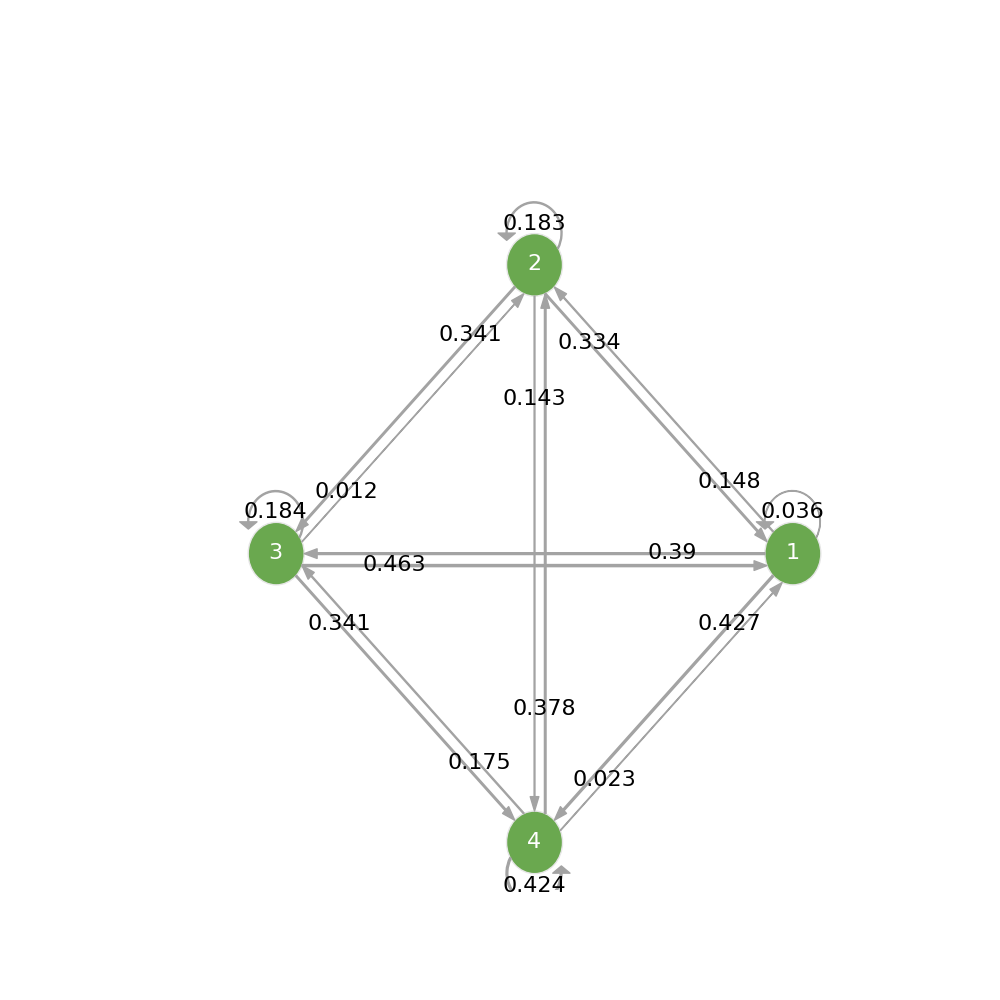
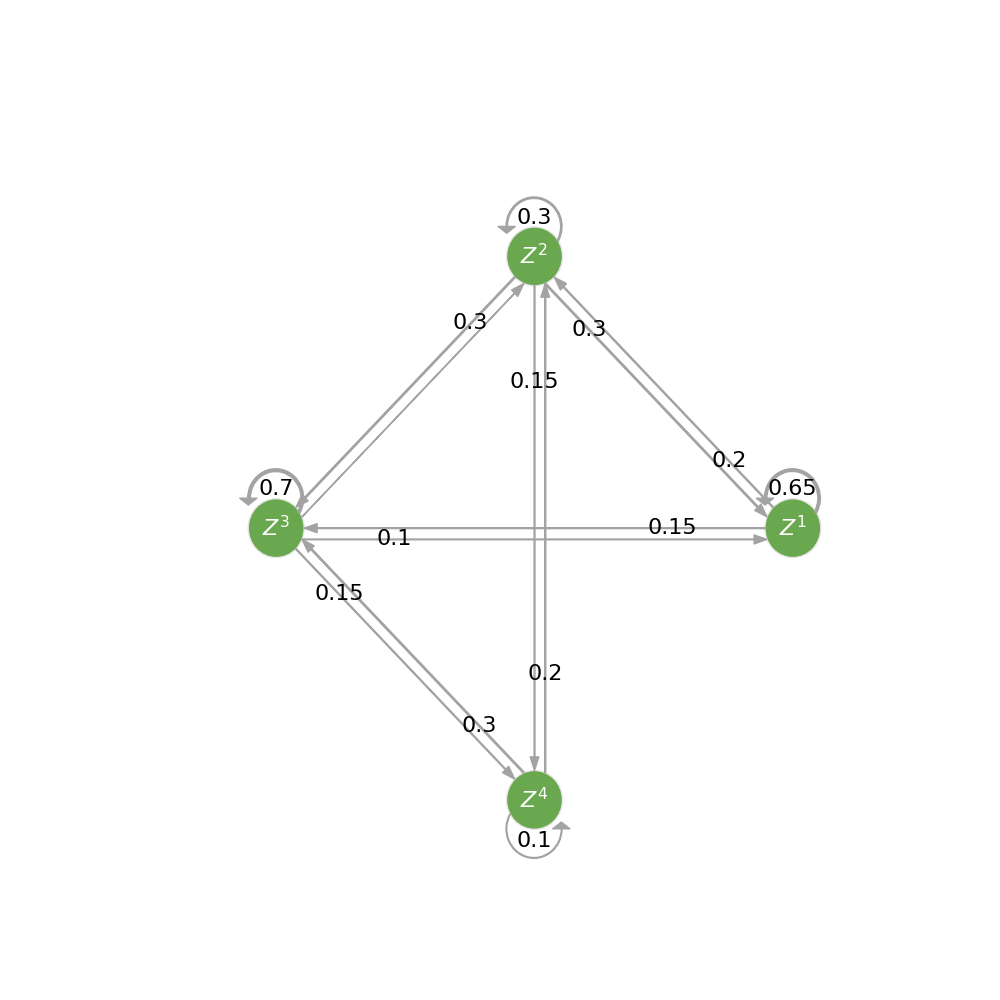
Update image and README

diff --git a/README.md b/README.md
@@ -4,7 +4,7 @@ Simple Markov Chain visualization module in Python. Only requires **matplotlib**
 
 ## Description
 
-The current version works with 2 to 9 states (can plot more, but graph becomes cluttery).
+The current version works with 2 to 9 states - it is possible to plot more, but graph becomes cluttery. (2 to 4 states in the original version 2021-12-14.)
  
 ## Getting Started
 
@@ -31,38 +31,22 @@ mc.draw("../img/markov-chain-two-states.png")
 
 ![two state markov chain transition diagram python](https://github.com/NaysanSaran/markov-chain/blob/master/img/markov-chain-two-states.png)
 
-
-#### 3-state Markov chain demo
-
-```
-P = np.array([
-    [0.8, 0.1, 0.1],
-    [0.1, 0.7, 0.2],
-    [0.1, 0.7, 0.2],
-])
-mc = MarkovChain(P, ['A', 'B', 'C'])
-mc.draw("../img/markov-chain-three-states.png")
-```
-
-![three state markov chain transition diagram python](https://github.com/NaysanSaran/markov-chain/blob/master/img/markov-chain-three-states.png)
-
+## Contribution by [joel-n](https://github.com/joel-n)
 
 #### 4-state Markov chain demo
 
 ```
 P = np.array([
-    [0.8, 0.1, 0.1, 0.0],
-    [0.1, 0.7, 0.0, 0.2],
-    [0.1, 0.0, 0.7, 0.2],
-    [0.1, 0.0, 0.7, 0.2]
+    [0.65, 0.2, 0.15, 0.0], 
+    [0.3, 0.3, 0.3, 0.15],
+    [0.1, 0.0, 0.7, 0.15],
+    [0.4, 0.2, 0.3, 0.1]
 ])
-mc = MarkovChain(P, ['1', '2', '3', '4'])
+mc = MarkovChain(P, [r'$Z^1$', r'$Z^2$', r'$Z^3$', r'$Z^4$'])
 mc.draw("../img/markov-chain-four-states.png")
 ```
 
-![four state markov chain transition diagram python](https://github.com/NaysanSaran/markov-chain/blob/master/img/markov-chain-four-states.png)
-
-## Contribution by [joel-n](https://github.com/joel-n)
+![four state markov chain transition diagram python](https://github.com/joel-n/markov-chain/blob/master/img/markov-chain-four-states.png)
 
 #### Plotting more than 4 states with automatic coordinate generation
 
